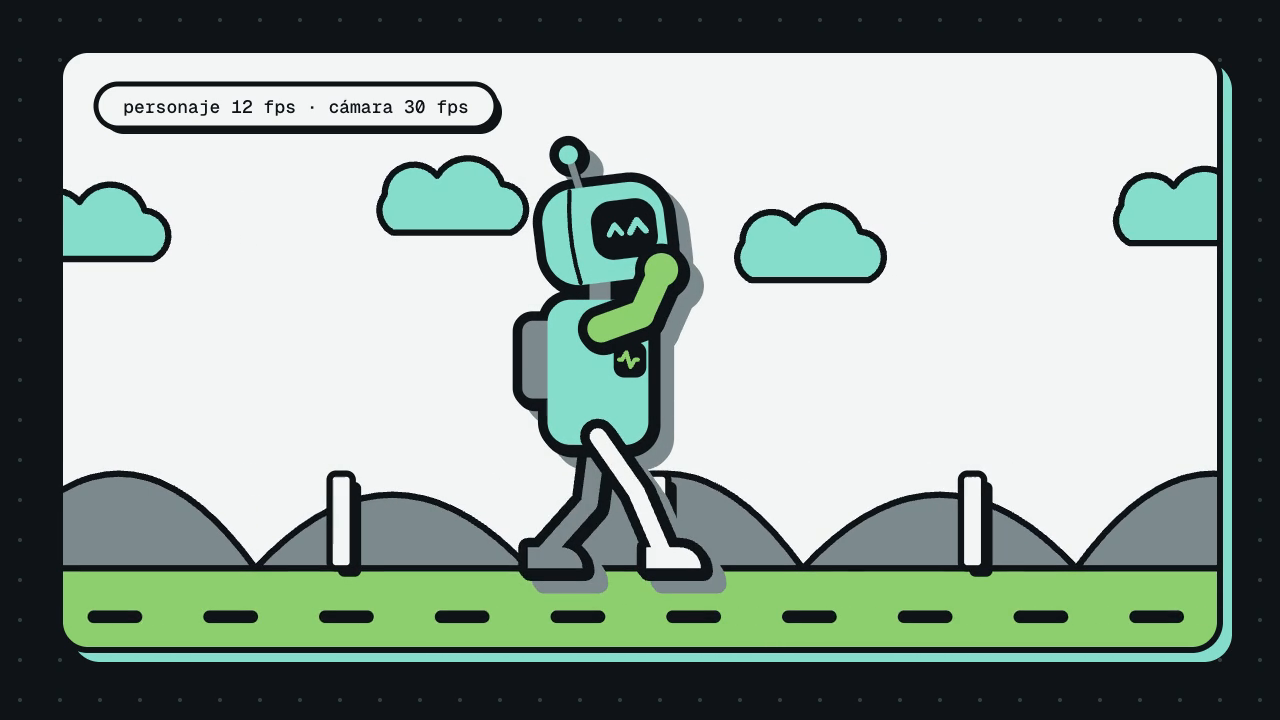
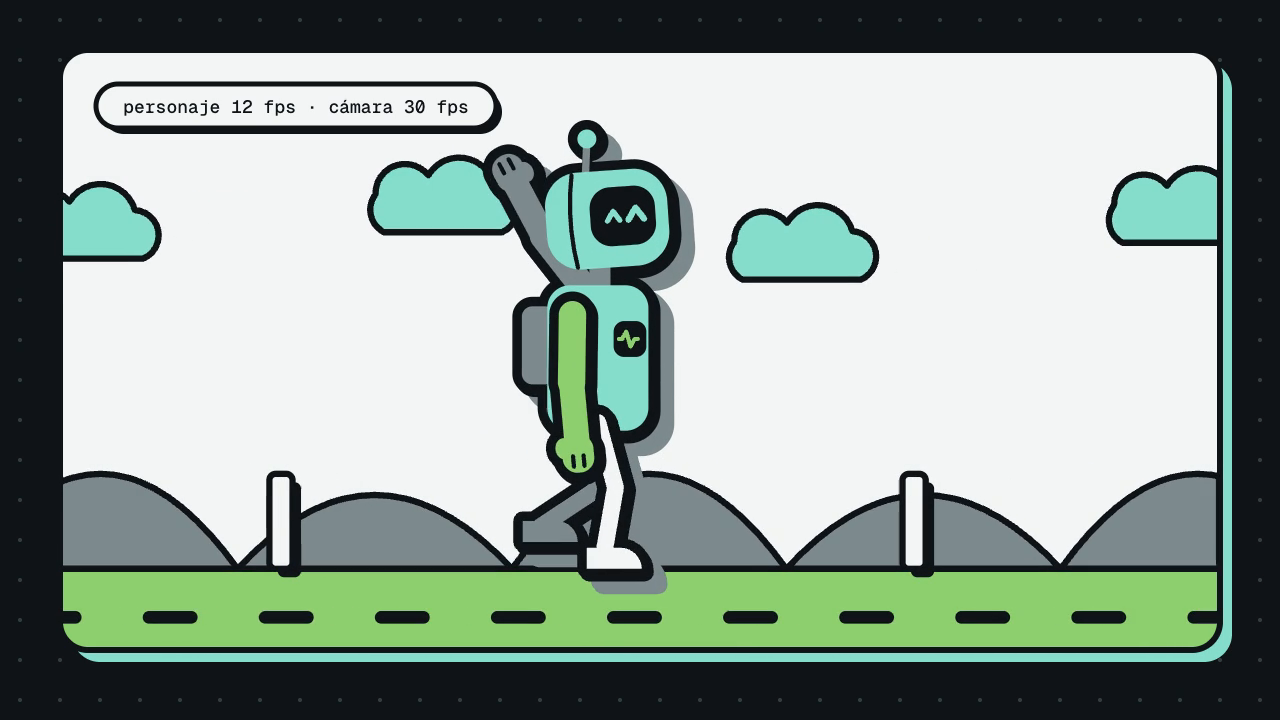
on-twos: robot de perfil con visor LED, caminata sin patinar y saludo con la otra mano

diff --git a/skills/motion-lab/on-twos/preview.html b/skills/motion-lab/on-twos/preview.html
@@ -15,6 +15,7 @@
          rellena de --bg con un trazo grueso; pasada de relleno = la forma sin trazo encima. Así las piezas
          que se tocan funden su silueta (una sola línea exterior, sin dobles líneas) */
       .pc { fill: var(--sh, var(--fc, var(--c))); stroke: var(--sh, var(--oc, none)); stroke-width: var(--ow, 0px); stroke-linejoin: round; stroke-linecap: round; }
+      .ar { fill: none; stroke: var(--sh, var(--lc, var(--c))); stroke-width: calc(var(--aw, 26px) + var(--ow, 0px)); stroke-linejoin: round; stroke-linecap: round; }
       .lg { fill: none; stroke: var(--sh, var(--lc, var(--c))); stroke-width: var(--lw, 16px); stroke-linejoin: round; stroke-linecap: round; }
       .ol { --fc: var(--bg); --oc: var(--bg); --ow: 18px; --lc: var(--bg); --lw: 34px; }
       /* detalles interiores: trazo delgado, nunca entran a la silueta */
@@ -61,9 +62,15 @@
                     <use href="#ubShapes" class="ol" x="2.5" y="3" />
                     <use href="#ubShapes" class="ol" />
                     <g id="ubShapes">
+                      <!-- brazo lejano (detrás del torso y de la cabeza; es el que saluda): su silueta se funde con el tronco -->
                       <g id="armFar" style="--c: var(--muted)">
-                        <rect class="pc" x="-13" y="-212" width="26" height="92" rx="13" />
-                        <circle class="pc" cx="0" cy="-116" r="16" />
+                        <path id="armFarU" class="ar" d="M0 -214 L0 -144" />
+                        <path id="armFarF" class="ar" style="--aw: 24px" d="M0 -144 L0 -74" />
+                        <g id="handFar">
+                        <ellipse class="pc" cx="13" cy="2" rx="8" ry="10" />
+                        <rect class="pc" x="-15" y="-22" width="30" height="36" rx="14" />
+                        <path class="dl" style="--c: var(--bg)" d="M-5 -16 v10 M5 -16 v10" />
+                        </g>
                       </g>
                       <!-- mochila: dice «la espalda está a la izquierda» -->
                       <rect class="pc" style="--c: var(--muted)" x="-72" y="-208" width="32" height="74" rx="10" />
@@ -93,8 +100,8 @@
                         <!-- costura del casco (interior fino) -->
                         <path id="seam" class="dl" style="--c: var(--bg); stroke-width: 4px" d="M-14 -334 q-8 44 0 88" />
                       </g>
-                      <rect class="dt" style="--c: var(--bg)" x="17" y="-186" width="27" height="30" rx="8" />
-                      <path class="dl" style="--c: var(--accent2)" d="M20 -171 h3 l4 -7 l4 14 l4 -7 h3" />
+                      <rect class="dt" style="--c: var(--bg)" x="17" y="-192" width="27" height="30" rx="8" />
+                      <path class="dl" style="--c: var(--accent2)" d="M20 -177 h3 l4 -7 l4 14 l4 -7 h3" />
                     </g>
                   </g>
                   <!-- pierna cercana (delante del torso) -->
@@ -104,19 +111,20 @@
                     <path id="legNearP" class="lg" d="M0 -98 L0 -14" />
                     <g id="bootNear"><path class="pc" d="M-16 -20 h32 a20 20 0 0 1 20 20 h-52 z" /></g>
                   </g>
-                  <!-- brazo cercano (delante de todo; es el que saluda) -->
+                  <!-- brazo cercano (lado de la cámara, delante de todo): sólo camina, en contrafase a las piernas -->
                   <g id="upperFront">
-                   <g id="shoulderNear">
                     <use href="#armNear" class="ol" x="2.5" y="3" />
                     <use href="#armNear" class="ol" />
                     <g id="armNear" style="--c: var(--accent2)">
-                      <rect class="pc" x="-13" y="-212" width="26" height="66" rx="13" />
-                      <g id="foreNear">
-                        <rect class="pc" x="-12" y="-170" width="24" height="58" rx="12" />
-                        <circle class="pc" cx="0" cy="-112" r="16" />
+                      <path id="armNearU" class="ar" d="M-24 -200 L-24 -130" />
+                      <path id="armNearF" class="ar" style="--aw: 24px" d="M-24 -130 L-24 -60" />
+                      <g id="handNear">
+                        <!-- manopla: palma redondeada + pulgar; apunta hacia -y en su marco -->
+                        <ellipse class="pc" cx="13" cy="2" rx="8" ry="10" />
+                        <rect class="pc" x="-15" y="-22" width="30" height="36" rx="14" />
+                        <path class="dl" style="--c: var(--bg)" d="M-5 -16 v10 M5 -16 v10" />
                       </g>
                     </g>
-                   </g>
                   </g>
                 </g>
               </g>
@@ -145,12 +153,13 @@
         duty: 0.55,                  // fracción del ciclo con el pie en el piso (>0.5 = doble apoyo, caminata y no carrera)
         bob: 4,                      // px extra de bajada tras el contacto (el sube-y-baja grande sale solo del compás de la pierna)
         kneeFlex: 50,                // grados que se dobla la rodilla en el aire (el pie sube solo, la espinilla nunca horizontal)
-        armSwing: 20,                // grados de vaivén de brazos (en contrafase a las piernas)
+        armSwing: 16,                // grados de vaivén de brazos (en contrafase a las piernas)
         groundOnTwos: true,          // piso y postes a charFps junto al personaje: el pie no patina entre poses
         camZoom: 1.06,               // escala final de la cámara (dolly suave)
-        wave: { at: 2.4, times: 3, upper: -110, fore: -36, turn: -4, shoulder: 2 }, // saluda con el brazo cercano N veces (bucle finito) sin dejar de caminar: brazo arriba y adelante, mano delante del visor sin taparlo (el hombro se adelanta a `shoulder`); turn = visor a 3/4
+        wave: { at: 2.4, times: 3, upper: -142, fore: -162, swing: 20, turn: -8 }, // saluda con el brazo cercano N veces (bucle finito) sin dejar de caminar: con el brazo LEJANO, que sube por detrás del hombro y deja la manopla sobre la cabeza (upper/fore = ángulos desde la vertical hacia abajo, negativo = hacia atrás; ±180 = arriba), meneándose ±swing° alrededor del codo; turn = visor a 3/4
         blinkAt: 1.5,                // parpadeo (s)
       };
+      const ARM = { upper: 64, fore: 64 }; // largo FIJO de brazo y antebrazo (iguales al caminar y al saludar)
       const PALETTES = {
         fixtergeek: { bg: "#0E1317", ink: "#F2F5F4", accent: "#85DDCB", accent2: "#8DCF6E", muted: "#7C8A8E" },
         easybits:   { bg: "#0b0b0f", ink: "#ffffff", accent: "#7c3aed", accent2: "#fbbf24", muted: "#8a8a99" },
@@ -235,8 +244,8 @@
         return { hy, d: `M0 ${hy.toFixed(2)} L${kx.toFixed(2)} ${ky.toFixed(2)} L${ax.toFixed(2)} ${ay.toFixed(2)}`, ax, ay, th, sh };
       };
       const legNearP = document.getElementById("legNearP"), legFarP = document.getElementById("legFarP");
-      gsap.set(["#armNear", "#armFar"], { rotation: 0, svgOrigin: "0 -200" });
-      gsap.set("#foreNear", { rotation: 0, svgOrigin: "0 -158" });
+      const armFarU = document.getElementById("armFarU"), armFarF = document.getElementById("armFarF"), handFar = document.getElementById("handFar");
+      const armNearU = document.getElementById("armNearU"), armNearF = document.getElementById("armNearF"), handNear = document.getElementById("handNear");
       gsap.set("#antenna", { rotation: 0, svgOrigin: "-12 -330" });
       gsap.set("#head", { rotation: 0, svgOrigin: "2 -246" });
 
@@ -247,13 +256,11 @@
       ch.set(W, { amt: 0, wig: 0 }, 0)
         .set("#eyesOpen", { scaleY: 1, opacity: 1, svgOrigin: "37 -294" }, 0)
         .set("#eyesHappy", { opacity: 0 }, 0)
-        .set(["#visor", "#seam"], { x: 0 }, 0)
-        .set("#shoulderNear", { x: -18 }, 0); // hombro cercano atrás: al caminar el brazo no cruza la pantalla del pecho
+        .set(["#visor", "#seam"], { x: 0 }, 0);
       ch.to(W, { amt: 1, duration: 0.25, ease: "back.out(2)" }, wAt)
-        .fromTo(W, { wig: -10 }, { wig: 10, duration: 0.18, ease: "sine.inOut", yoyo: true, repeat: wReps }, wAt + 0.25)
-        .to("#head", { rotation: -7, duration: 0.25, ease: "power2.out" }, wAt)
-        .to("#shoulderNear", { x: PARAMS.wave.shoulder, duration: 0.25, ease: "back.out(2)" }, wAt)
-        .to("#visor", { x: PARAMS.wave.turn, duration: 0.25, ease: "power2.out" }, wAt) // visor a 3/4: mira a cámara
+        .fromTo(W, { wig: -PARAMS.wave.swing }, { wig: PARAMS.wave.swing, duration: 0.18, ease: "sine.inOut", yoyo: true, repeat: wReps }, wAt + 0.25)
+        .to("#head", { rotation: -4, duration: 0.25, ease: "power2.out" }, wAt)
+                .to("#visor", { x: PARAMS.wave.turn, duration: 0.25, ease: "power2.out" }, wAt) // visor a 3/4: mira a cámara
         .to("#seam", { x: PARAMS.wave.turn * 0.6, duration: 0.25, ease: "power2.out" }, wAt)
         .set("#eyesOpen", { opacity: 0 }, wAt + 0.08).set("#eyesHappy", { opacity: 1 }, wAt + 0.08);
       ch.to("#eyesOpen", { scaleY: 0.12, duration: 0.08, ease: "power1.in", yoyo: true, repeat: 1 }, PARAMS.blinkAt);
@@ -268,11 +275,22 @@
         gsap.set("#bootFar", { x: F.ax, y: F.ay + ANKLE });
         gsap.set(["#upperBack", "#upperFront"], { y: N.hy + HIP0 });
         // brazos en contrafase: el cercano va con la pierna lejana (negativo = hacia adelante)
-        const walkNear = -PARAMS.armSwing * Math.sin(F.th) / Math.sin(35 * D2R), walkFar = -PARAMS.armSwing * Math.sin(N.th) / Math.sin(35 * D2R);
-        const k = W.amt;
-        gsap.set("#armNear", { rotation: walkNear + (PARAMS.wave.upper - walkNear) * k });
-        gsap.set("#foreNear", { rotation: -12 + (PARAMS.wave.fore + W.wig + 12) * k });
-        gsap.set("#armFar", { rotation: walkFar });
+        // brazos en contrafase: el cercano va con la pierna lejana (ángulos desde la vertical, positivo = adelante)
+        const swingNear = PARAMS.armSwing * Math.sin(F.th) / Math.sin(35 * D2R), swingFar = PARAMS.armSwing * Math.sin(N.th) / Math.sin(35 * D2R);
+        const k = W.amt, wv = PARAMS.wave;
+        // brazo de dos segmentos de largo fijo: hombro (sx, sy), ángulos desde la vertical hacia abajo (positivo = adelante)
+        const drawArm = (U, Fp, hand, sx, sy, thU, thF) => {
+          const ex = sx + ARM.upper * Math.sin(thU), ey = sy + ARM.upper * Math.cos(thU);
+          const hx = ex + ARM.fore * Math.sin(thF), hy = ey + ARM.fore * Math.cos(thF);
+          U.setAttribute("d", `M${sx.toFixed(2)} ${sy} L${ex.toFixed(2)} ${ey.toFixed(2)}`);
+          Fp.setAttribute("d", `M${ex.toFixed(2)} ${ey.toFixed(2)} L${hx.toFixed(2)} ${hy.toFixed(2)}`);
+          hand.setAttribute("transform", `translate(${hx.toFixed(2)} ${hy.toFixed(2)}) rotate(${(180 - thF / D2R).toFixed(2)})`);
+        };
+        // cercano: siempre caminando, colgado del hombro de atrás (x −24: no cruza la pantalla del pecho)
+        drawArm(armNearU, armNearF, handNear, -24, -200, swingNear * D2R, (swingNear + 6) * D2R);
+        // lejano: contrafase al caminar; al saludar sube hacia ATRÁS (por detrás del hombro) hasta dejar la mano sobre la cabeza
+        const mix = (a, b) => a + (b - a) * k;
+        drawArm(armFarU, armFarF, handFar, -12, -224, mix(swingFar, wv.upper) * D2R, mix(swingFar + 12, wv.fore + W.wig) * D2R);
         // follow-through: la antena va un poco detrás del bob
         gsap.set("#antenna", { rotation: 12 * bobAt(p - 0.08) });
       };

diff --git a/skills/motion-lab/on-twos/recipe.html b/skills/motion-lab/on-twos/recipe.html
@@ -15,6 +15,7 @@
          rellena de --bg con un trazo grueso; pasada de relleno = la forma sin trazo encima. Así las piezas
          que se tocan funden su silueta (una sola línea exterior, sin dobles líneas) */
       .pc { fill: var(--sh, var(--fc, var(--c))); stroke: var(--sh, var(--oc, none)); stroke-width: var(--ow, 0px); stroke-linejoin: round; stroke-linecap: round; }
+      .ar { fill: none; stroke: var(--sh, var(--lc, var(--c))); stroke-width: calc(var(--aw, 26px) + var(--ow, 0px)); stroke-linejoin: round; stroke-linecap: round; }
       .lg { fill: none; stroke: var(--sh, var(--lc, var(--c))); stroke-width: var(--lw, 16px); stroke-linejoin: round; stroke-linecap: round; }
       .ol { --fc: var(--bg); --oc: var(--bg); --ow: 18px; --lc: var(--bg); --lw: 34px; }
       /* detalles interiores: trazo delgado, nunca entran a la silueta */
@@ -61,9 +62,15 @@
                     <use href="#ubShapes" class="ol" x="2.5" y="3" />
                     <use href="#ubShapes" class="ol" />
                     <g id="ubShapes">
+                      <!-- brazo lejano (detrás del torso y de la cabeza; es el que saluda): su silueta se funde con el tronco -->
                       <g id="armFar" style="--c: var(--muted)">
-                        <rect class="pc" x="-13" y="-212" width="26" height="92" rx="13" />
-                        <circle class="pc" cx="0" cy="-116" r="16" />
+                        <path id="armFarU" class="ar" d="M0 -214 L0 -144" />
+                        <path id="armFarF" class="ar" style="--aw: 24px" d="M0 -144 L0 -74" />
+                        <g id="handFar">
+                        <ellipse class="pc" cx="13" cy="2" rx="8" ry="10" />
+                        <rect class="pc" x="-15" y="-22" width="30" height="36" rx="14" />
+                        <path class="dl" style="--c: var(--bg)" d="M-5 -16 v10 M5 -16 v10" />
+                        </g>
                       </g>
                       <!-- mochila: dice «la espalda está a la izquierda» -->
                       <rect class="pc" style="--c: var(--muted)" x="-72" y="-208" width="32" height="74" rx="10" />
@@ -93,8 +100,8 @@
                         <!-- costura del casco (interior fino) -->
                         <path id="seam" class="dl" style="--c: var(--bg); stroke-width: 4px" d="M-14 -334 q-8 44 0 88" />
                       </g>
-                      <rect class="dt" style="--c: var(--bg)" x="17" y="-186" width="27" height="30" rx="8" />
-                      <path class="dl" style="--c: var(--accent2)" d="M20 -171 h3 l4 -7 l4 14 l4 -7 h3" />
+                      <rect class="dt" style="--c: var(--bg)" x="17" y="-192" width="27" height="30" rx="8" />
+                      <path class="dl" style="--c: var(--accent2)" d="M20 -177 h3 l4 -7 l4 14 l4 -7 h3" />
                     </g>
                   </g>
                   <!-- pierna cercana (delante del torso) -->
@@ -104,19 +111,20 @@
                     <path id="legNearP" class="lg" d="M0 -98 L0 -14" />
                     <g id="bootNear"><path class="pc" d="M-16 -20 h32 a20 20 0 0 1 20 20 h-52 z" /></g>
                   </g>
-                  <!-- brazo cercano (delante de todo; es el que saluda) -->
+                  <!-- brazo cercano (lado de la cámara, delante de todo): sólo camina, en contrafase a las piernas -->
                   <g id="upperFront">
-                   <g id="shoulderNear">
                     <use href="#armNear" class="ol" x="2.5" y="3" />
                     <use href="#armNear" class="ol" />
                     <g id="armNear" style="--c: var(--accent2)">
-                      <rect class="pc" x="-13" y="-212" width="26" height="66" rx="13" />
-                      <g id="foreNear">
-                        <rect class="pc" x="-12" y="-170" width="24" height="58" rx="12" />
-                        <circle class="pc" cx="0" cy="-112" r="16" />
+                      <path id="armNearU" class="ar" d="M-24 -200 L-24 -130" />
+                      <path id="armNearF" class="ar" style="--aw: 24px" d="M-24 -130 L-24 -60" />
+                      <g id="handNear">
+                        <!-- manopla: palma redondeada + pulgar; apunta hacia -y en su marco -->
+                        <ellipse class="pc" cx="13" cy="2" rx="8" ry="10" />
+                        <rect class="pc" x="-15" y="-22" width="30" height="36" rx="14" />
+                        <path class="dl" style="--c: var(--bg)" d="M-5 -16 v10 M5 -16 v10" />
                       </g>
                     </g>
-                   </g>
                   </g>
                 </g>
               </g>
@@ -145,12 +153,13 @@
         duty: 0.55,                  // fracción del ciclo con el pie en el piso (>0.5 = doble apoyo, caminata y no carrera)
         bob: 4,                      // px extra de bajada tras el contacto (el sube-y-baja grande sale solo del compás de la pierna)
         kneeFlex: 50,                // grados que se dobla la rodilla en el aire (el pie sube solo, la espinilla nunca horizontal)
-        armSwing: 20,                // grados de vaivén de brazos (en contrafase a las piernas)
+        armSwing: 16,                // grados de vaivén de brazos (en contrafase a las piernas)
         groundOnTwos: true,          // piso y postes a charFps junto al personaje: el pie no patina entre poses
         camZoom: 1.06,               // escala final de la cámara (dolly suave)
-        wave: { at: 2.4, times: 3, upper: -110, fore: -36, turn: -4, shoulder: 2 }, // saluda con el brazo cercano N veces (bucle finito) sin dejar de caminar: brazo arriba y adelante, mano delante del visor sin taparlo (el hombro se adelanta a `shoulder`); turn = visor a 3/4
+        wave: { at: 2.4, times: 3, upper: -142, fore: -162, swing: 20, turn: -8 }, // saluda con el brazo cercano N veces (bucle finito) sin dejar de caminar: con el brazo LEJANO, que sube por detrás del hombro y deja la manopla sobre la cabeza (upper/fore = ángulos desde la vertical hacia abajo, negativo = hacia atrás; ±180 = arriba), meneándose ±swing° alrededor del codo; turn = visor a 3/4
         blinkAt: 1.5,                // parpadeo (s)
       };
+      const ARM = { upper: 64, fore: 64 }; // largo FIJO de brazo y antebrazo (iguales al caminar y al saludar)
       const PALETTES = {
         fixtergeek: { bg: "#0E1317", ink: "#F2F5F4", accent: "#85DDCB", accent2: "#8DCF6E", muted: "#7C8A8E" },
         easybits:   { bg: "#0b0b0f", ink: "#ffffff", accent: "#7c3aed", accent2: "#fbbf24", muted: "#8a8a99" },
@@ -235,8 +244,8 @@
         return { hy, d: `M0 ${hy.toFixed(2)} L${kx.toFixed(2)} ${ky.toFixed(2)} L${ax.toFixed(2)} ${ay.toFixed(2)}`, ax, ay, th, sh };
       };
       const legNearP = document.getElementById("legNearP"), legFarP = document.getElementById("legFarP");
-      gsap.set(["#armNear", "#armFar"], { rotation: 0, svgOrigin: "0 -200" });
-      gsap.set("#foreNear", { rotation: 0, svgOrigin: "0 -158" });
+      const armFarU = document.getElementById("armFarU"), armFarF = document.getElementById("armFarF"), handFar = document.getElementById("handFar");
+      const armNearU = document.getElementById("armNearU"), armNearF = document.getElementById("armNearF"), handNear = document.getElementById("handNear");
       gsap.set("#antenna", { rotation: 0, svgOrigin: "-12 -330" });
       gsap.set("#head", { rotation: 0, svgOrigin: "2 -246" });
 
@@ -247,13 +256,11 @@
       ch.set(W, { amt: 0, wig: 0 }, 0)
         .set("#eyesOpen", { scaleY: 1, opacity: 1, svgOrigin: "37 -294" }, 0)
         .set("#eyesHappy", { opacity: 0 }, 0)
-        .set(["#visor", "#seam"], { x: 0 }, 0)
-        .set("#shoulderNear", { x: -18 }, 0); // hombro cercano atrás: al caminar el brazo no cruza la pantalla del pecho
+        .set(["#visor", "#seam"], { x: 0 }, 0);
       ch.to(W, { amt: 1, duration: 0.25, ease: "back.out(2)" }, wAt)
-        .fromTo(W, { wig: -10 }, { wig: 10, duration: 0.18, ease: "sine.inOut", yoyo: true, repeat: wReps }, wAt + 0.25)
-        .to("#head", { rotation: -7, duration: 0.25, ease: "power2.out" }, wAt)
-        .to("#shoulderNear", { x: PARAMS.wave.shoulder, duration: 0.25, ease: "back.out(2)" }, wAt)
-        .to("#visor", { x: PARAMS.wave.turn, duration: 0.25, ease: "power2.out" }, wAt) // visor a 3/4: mira a cámara
+        .fromTo(W, { wig: -PARAMS.wave.swing }, { wig: PARAMS.wave.swing, duration: 0.18, ease: "sine.inOut", yoyo: true, repeat: wReps }, wAt + 0.25)
+        .to("#head", { rotation: -4, duration: 0.25, ease: "power2.out" }, wAt)
+                .to("#visor", { x: PARAMS.wave.turn, duration: 0.25, ease: "power2.out" }, wAt) // visor a 3/4: mira a cámara
         .to("#seam", { x: PARAMS.wave.turn * 0.6, duration: 0.25, ease: "power2.out" }, wAt)
         .set("#eyesOpen", { opacity: 0 }, wAt + 0.08).set("#eyesHappy", { opacity: 1 }, wAt + 0.08);
       ch.to("#eyesOpen", { scaleY: 0.12, duration: 0.08, ease: "power1.in", yoyo: true, repeat: 1 }, PARAMS.blinkAt);
@@ -268,11 +275,22 @@
         gsap.set("#bootFar", { x: F.ax, y: F.ay + ANKLE });
         gsap.set(["#upperBack", "#upperFront"], { y: N.hy + HIP0 });
         // brazos en contrafase: el cercano va con la pierna lejana (negativo = hacia adelante)
-        const walkNear = -PARAMS.armSwing * Math.sin(F.th) / Math.sin(35 * D2R), walkFar = -PARAMS.armSwing * Math.sin(N.th) / Math.sin(35 * D2R);
-        const k = W.amt;
-        gsap.set("#armNear", { rotation: walkNear + (PARAMS.wave.upper - walkNear) * k });
-        gsap.set("#foreNear", { rotation: -12 + (PARAMS.wave.fore + W.wig + 12) * k });
-        gsap.set("#armFar", { rotation: walkFar });
+        // brazos en contrafase: el cercano va con la pierna lejana (ángulos desde la vertical, positivo = adelante)
+        const swingNear = PARAMS.armSwing * Math.sin(F.th) / Math.sin(35 * D2R), swingFar = PARAMS.armSwing * Math.sin(N.th) / Math.sin(35 * D2R);
+        const k = W.amt, wv = PARAMS.wave;
+        // brazo de dos segmentos de largo fijo: hombro (sx, sy), ángulos desde la vertical hacia abajo (positivo = adelante)
+        const drawArm = (U, Fp, hand, sx, sy, thU, thF) => {
+          const ex = sx + ARM.upper * Math.sin(thU), ey = sy + ARM.upper * Math.cos(thU);
+          const hx = ex + ARM.fore * Math.sin(thF), hy = ey + ARM.fore * Math.cos(thF);
+          U.setAttribute("d", `M${sx.toFixed(2)} ${sy} L${ex.toFixed(2)} ${ey.toFixed(2)}`);
+          Fp.setAttribute("d", `M${ex.toFixed(2)} ${ey.toFixed(2)} L${hx.toFixed(2)} ${hy.toFixed(2)}`);
+          hand.setAttribute("transform", `translate(${hx.toFixed(2)} ${hy.toFixed(2)}) rotate(${(180 - thF / D2R).toFixed(2)})`);
+        };
+        // cercano: siempre caminando, colgado del hombro de atrás (x −24: no cruza la pantalla del pecho)
+        drawArm(armNearU, armNearF, handNear, -24, -200, swingNear * D2R, (swingNear + 6) * D2R);
+        // lejano: contrafase al caminar; al saludar sube hacia ATRÁS (por detrás del hombro) hasta dejar la mano sobre la cabeza
+        const mix = (a, b) => a + (b - a) * k;
+        drawArm(armFarU, armFarF, handFar, -12, -224, mix(swingFar, wv.upper) * D2R, mix(swingFar + 12, wv.fore + W.wig) * D2R);
         // follow-through: la antena va un poco detrás del bob
         gsap.set("#antenna", { rotation: 12 * bobAt(p - 0.08) });
       };

diff --git a/skills/motion-lab/on-twos/SKILL.md b/skills/motion-lab/on-twos/SKILL.md
@@ -54,10 +54,11 @@ suave. El pie apoyado se queda pegado al piso: el ciclo de paso sale de la veloc
 | duty | 0–1 | 0.55 | fracción del ciclo con el pie en el piso (>0.5 = doble apoyo: caminata) |
 | bob | px | 4 | bajada extra tras el contacto (el sube-y-baja grande sale solo: la cadera nunca queda más lejos del pie apoyado que la pierna casi estirada) |
 | kneeFlex | ° | 50 | doblez de rodilla en el aire (el pie sube solo; espinilla nunca horizontal) |
-| armSwing | ° | 20 | vaivén de brazos |
+| armSwing | ° | 16 | vaivén de brazos |
 | groundOnTwos | bool | true | piso y postes a charFps junto al personaje (sin esto el pie patina hasta v/charFps px entre poses) |
 | camZoom | number | 1.06 | dolly de la cámara (`sine.inOut`) |
-| wave | {at, times, upper, fore, turn, shoulder} | 2.4 / 3 / −110 / −36 / −4 / 2 | saludo con el brazo cercano (dos huesos) sin dejar de caminar, N veces (finito); el hombro se adelanta, la mano queda delante sin tapar visor ni pecho; turn = visor a 3/4 hacia cámara |
+| wave | {at, times, upper, fore, swing, turn} | 2.4 / 3 / −142 / −162 / 20 / −8 | saludo con el brazo LEJANO (detrás del torso): sube por detrás del hombro y la manopla asoma sobre la cabeza junto a la antena, ±swing° alrededor del codo, N vaivenes; el cercano sigue caminando; turn = visor a 3/4 |
+| ARM (constante) | px | 64 / 64 | largo de brazo y antebrazo, fijo en todos los cuadros (sin estirar) |
 | blinkAt | s | 1.5 | parpadeo |
 
 ## SFX sugerido
@@ -80,6 +81,15 @@ suave. El pie apoyado se queda pegado al piso: el ciclo de paso sale de la veloc
   y el pie apoyado se mueve a la velocidad del piso, si no, patina.
 - Con el piso fluido a 30 fps y el personaje a 12 el pie patina hasta `v/charFps` px (≈19 px) dentro de cada pose:
   por eso la capa de contacto (piso, postes) va en la misma rejilla y lo fluido son cámara, nubes y cerros.
+- v7 (20 oct): la v6 estiró el mismo brazo (telescópico) y bliss la rechazó: «saluda con la OTRA mano». Saluda el
+  brazo lejano, por detrás; largos fijos 64/64 (con 42/46 la mano no alcanza a pasar la cabeza). Chequeo automático
+  (`scratchpad/on-twos-v7/check.mjs`): largos ±1 px en 120 cuadros, brazo cercano sin tocar visor ni pantalla del
+  pecho, manopla del saludo sin tocar el visor y 15–29 px sobre la cabeza.
+- v6 (rechazada): el brazo salía del hombro de atrás y cruzaba el torso hasta la
+  barbilla (abrazo/rascarse). El saludo nace del hombro delantero, sube por FUERA del contorno y la manopla queda sobre
+  la cabeza; el brazo es procedural (`.ar`, grosor `calc(26px + --ow)` para que la silueta crezca con el estiramiento).
+  Chequeo automático por cuadro (puppeteer): brazo + contorno contra el bbox del torso y del visor, 0 cruces en el
+  saludo; con `fore` 170 y hombro en 54 la manopla tocaba el visor al menearse hacia atrás.
 - v4 (20 oct): con cadera fija la rodilla trasera se doblaba hasta quedar horizontal (se leía hincado). La altura de
   cadera sale del compás de la pierna apoyada (`hipAt`) y el pie en el aire se mueve por ángulos, no por IK.
 - El brazo cercano cruzaba la pantalla del pecho: hombro atrás (x −18) al caminar y pantalla al frente del torso;
